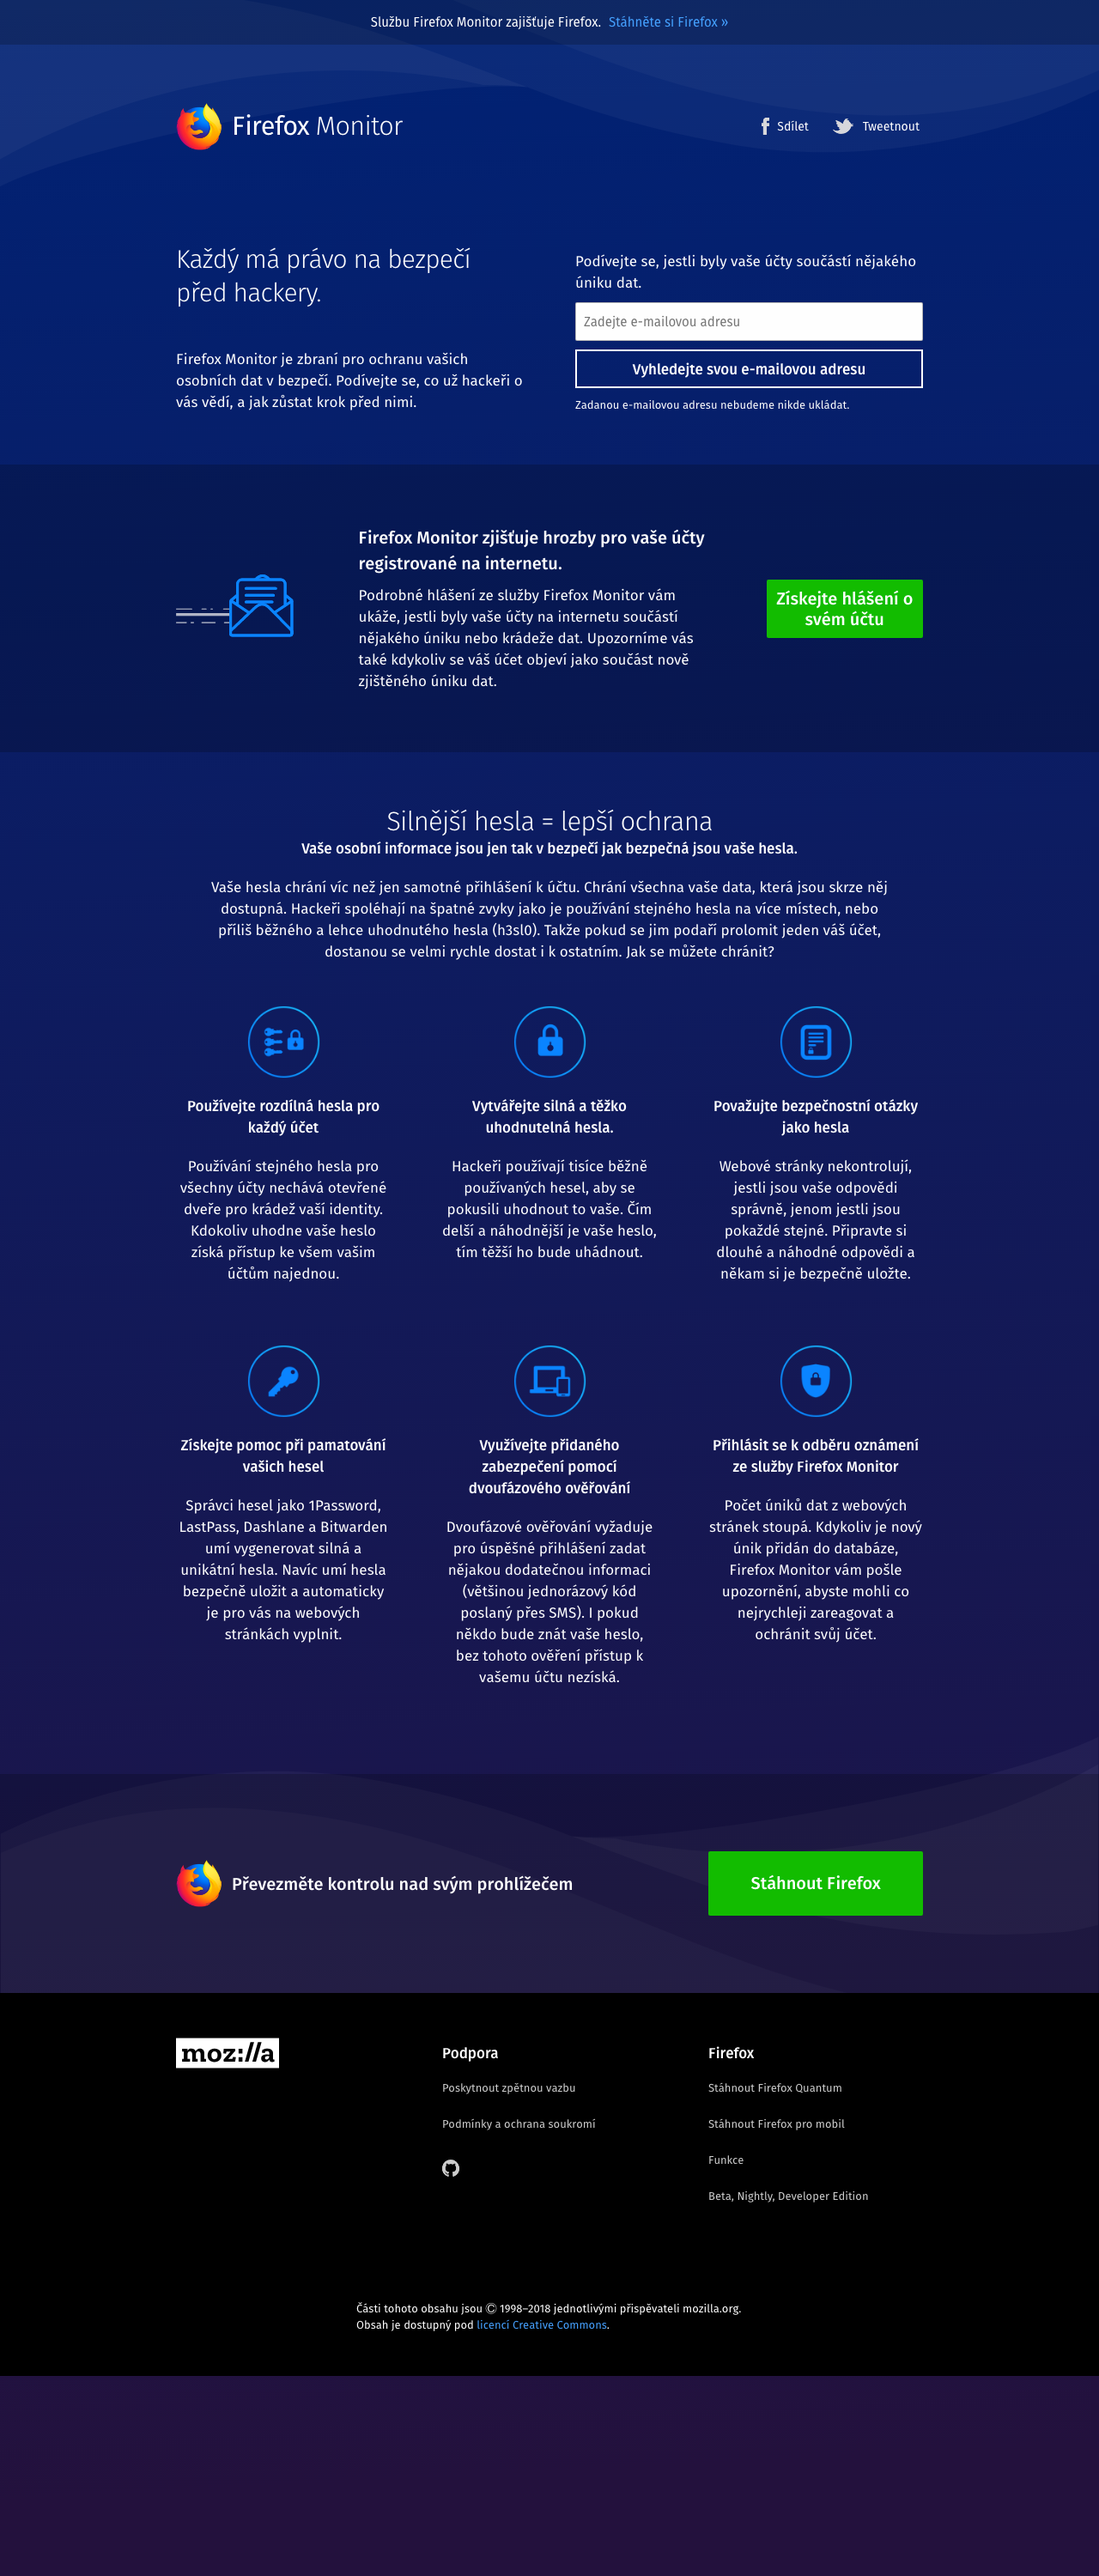
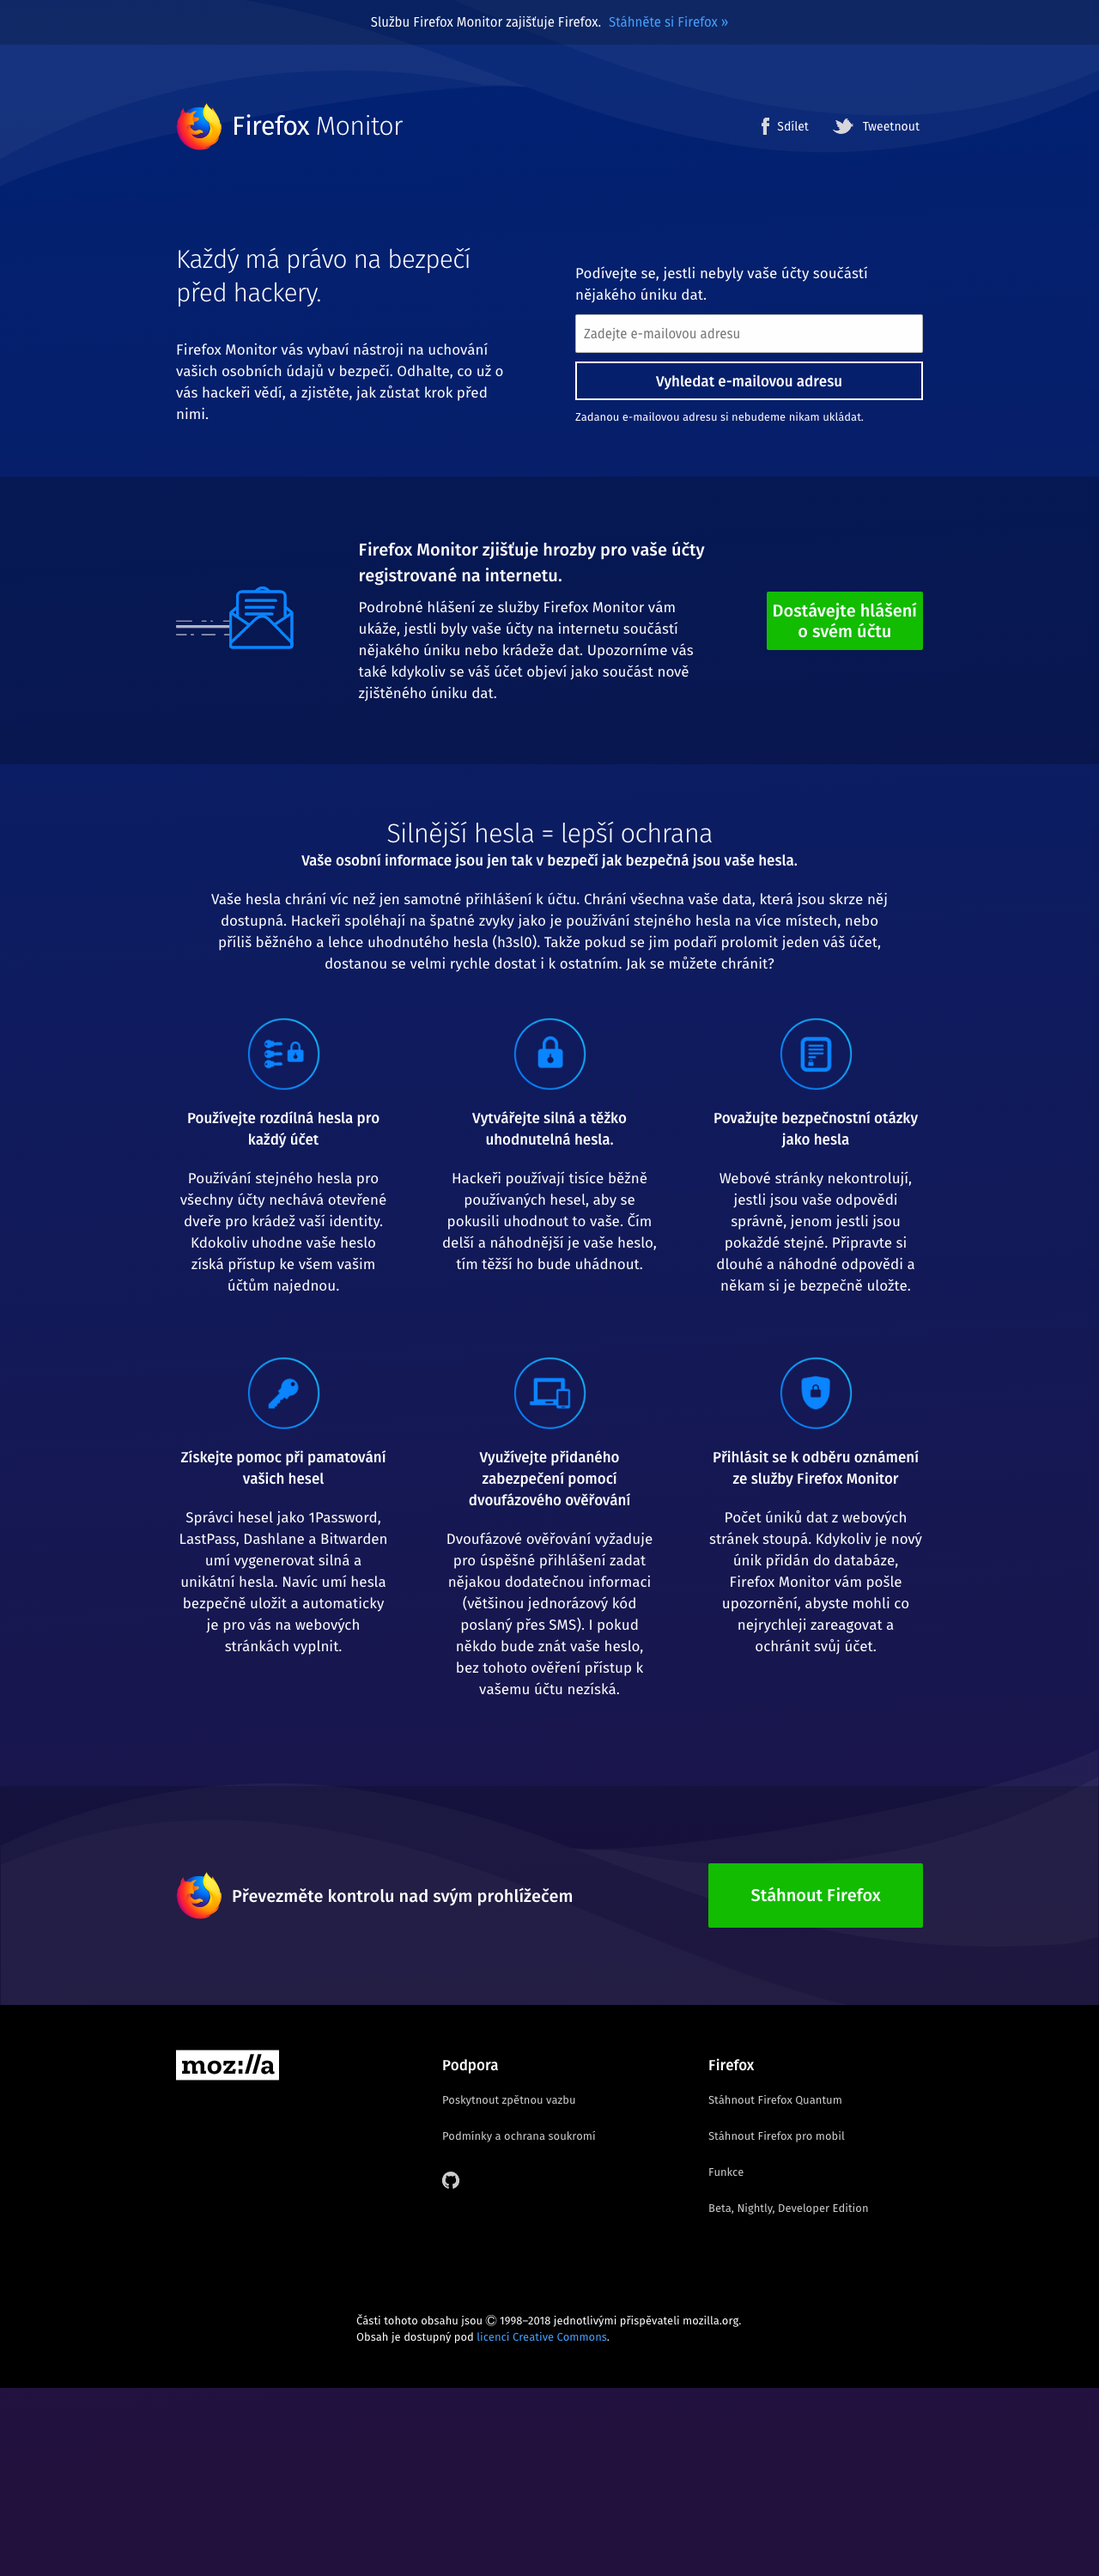
Update to 2018-11-12 locales

diff --git a/shots/README-desktop.md b/shots/README-desktop.md
@@ -1,5 +1,5 @@
 http://fx-breach-alerts.herokuapp.com
-11/8/2018
+2018-11-12
 ### cs
 ![](cs-desktop.png)
 

diff --git a/shots/README-mobile.md b/shots/README-mobile.md
@@ -1,5 +1,5 @@
 http://fx-breach-alerts.herokuapp.com
-11/8/2018
+2018-11-12
 ### cs
 ![](cs-mobile.png)
 
